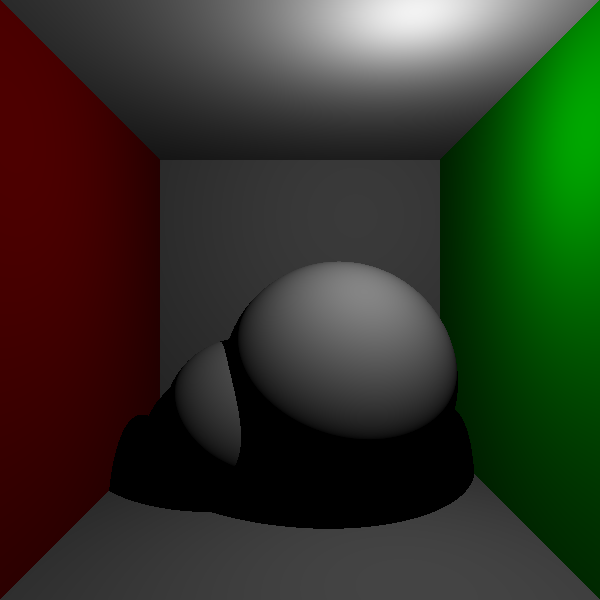
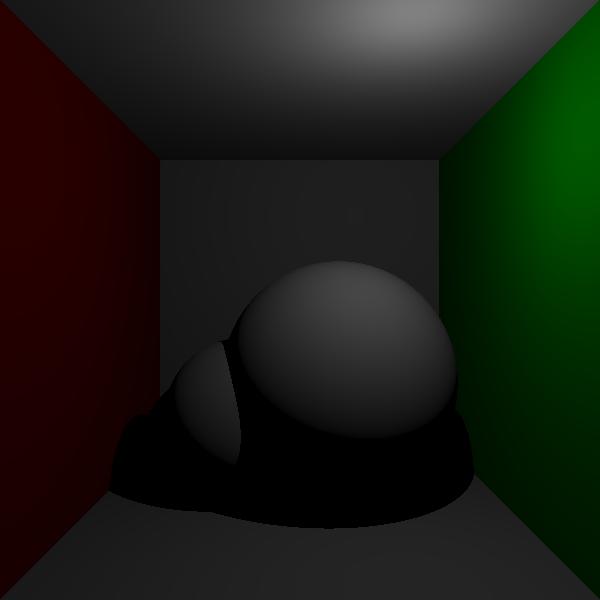
reconstruct AA sample loop

diff --git a/RenderProcess.py b/RenderProcess.py
@@ -25,7 +25,7 @@ class RenderProcess(multiprocessing.Process):
 		bucketArray = numpy.ndarray(shape=(self.bucketHeight,self.width,3),dtype = numpy.float)
 
 		#shoot multiple rays each pixel for anti-aliasing
-		AAsample = 1
+		AAsample = 4
 		#--deconstruct AAsample---------
 		AAxSubstep = int(math.floor(math.sqrt(AAsample)))
 		AAxSubstepLen = 1.0 / AAxSubstep
@@ -34,14 +34,14 @@ class RenderProcess(multiprocessing.Process):
 
 		timerStart = datetime.now()
 		#----shoot rays-------
-		for j in range(self.bucketY,self.bucketY + self.bucketHeight):
-			#----Each line of pixels level--------------
-			for i in range(0,self.width):
-				#--------Each pixel level--------------------
-				col = Vector(0,0,0)
+		for AAy in range(0,AAySubstep):
+			for AAx in range(0,AAxSubstep):
+				for j in range(self.bucketY,self.bucketY + self.bucketHeight):
+					#----Each line of pixels level--------------
+					for i in range(0,self.width):
+						#--------Each pixel level--------------------
+						col = Vector(0,0,0)
 
-				for AAy in range(0,AAySubstep):
-					for AAx in range(0,AAxSubstep):
 						rayDir = Vector(i + AAx * AAxSubstepLen + AAxSubstepLen/2 - self.width/2,
 										-j - AAy * AAySubstepLen - AAySubstepLen/2 + self.height/2,
 										-0.5*self.width/math.tan(math.radians(self.cam.angle/2))) #Warning!!!!! Convert to radian!!!!!!!
@@ -70,9 +70,10 @@ class RenderProcess(multiprocessing.Process):
 								#diffuse material
 								col = col + self.getColor(hitResult)
 
-				averageCol = self.clampColor(col / AAsample)
-				bucketArray[j%self.bucketHeight,i] = [averageCol.x,averageCol.y,averageCol.z]
+						bucketArray[j%self.bucketHeight,i] = [col.x,col.y,col.z]
 
+		bucketArray /= AAsample
+		numpy.clip(bucketArray,0,1)
 		self.outputQ.put([self.bucketX,self.bucketY,bucketArray])
 
 		timerEnd = datetime.now()
@@ -155,12 +156,3 @@ class RenderProcess(multiprocessing.Process):
 		matColor = self.scene.getObjectById(hitResult[3]).material.diffuseColor
 
 		return Vector(matColor.x * litColorAvg.x, matColor.y * litColorAvg.y,matColor.z * litColorAvg.z)
-
-
-
-	def clampColor(self,color):
-		#clamp the color below (0,0,0) and above(1,1,1), only for saving 8 bit images
-		r = max(min(color.x,1),0)
-		g = max(min(color.y,1),0)
-		b = max(min(color.z,1),0)
-		return Vector(r,g,b)

diff --git a/RenderThread.py b/RenderThread.py
@@ -56,18 +56,12 @@ class RenderThread(QThread):
 		renderTime = timerEnd - timerStart
 		print("Total Render Time: " + str(renderTime))
 
-		# bucketArrays.sort(key = self.getOrderKey)
-		# bucketArrays = [r[1] for r in bucketArrays]
+		#stamp bucket array onto the canvas array
 		for eachData in bucketData:
 			#print("----till here")
 			dataX = eachData[0]
 			dataY = eachData[1]
 			self.canvas[dataY:dataY+bucketHeight,dataX:600] += eachData[2]
-
-
-		#merge the arrays into one
-		#mergedArrays = np.vstack(bucketArrays) #merged along second axis
-		#np.require(mergedArrays,np.float32,"C")
 
 		#Apply 2.2 gamma correction and convert sRGB, in order to convert it to Qimage, array type has to be uint8
 		self.canvas = (np.power(self.canvas,1/2.2) * 255).astype(np.uint8)
@@ -76,4 +70,3 @@ class RenderThread(QThread):
 		newImage = QImage(self.canvas.data,self.width,self.height,self.canvas.strides[0],QImage.Format_RGB888)
 		newImage.save("test.png") #Image has to be save in this thread
 		self.updateImgSignal.emit(newImage)
-		# self.update(newImage)
